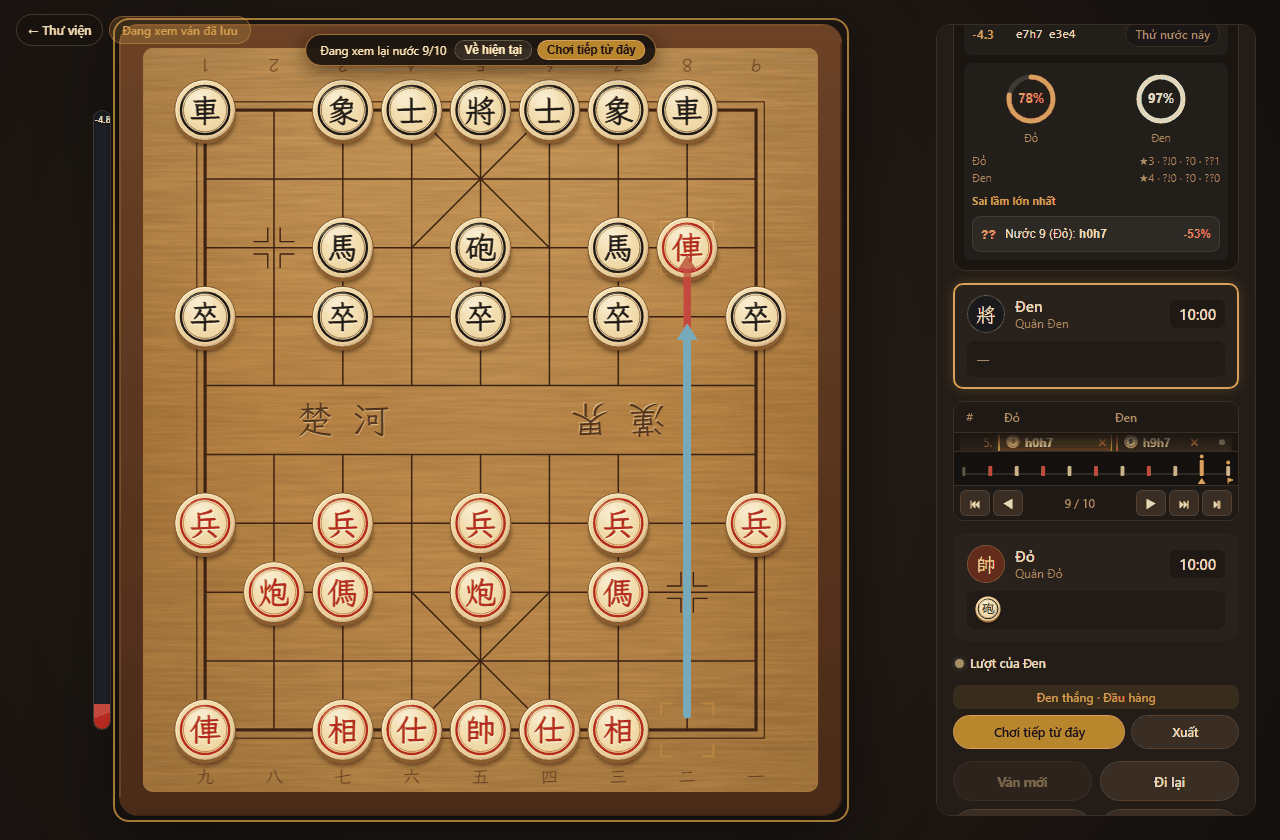
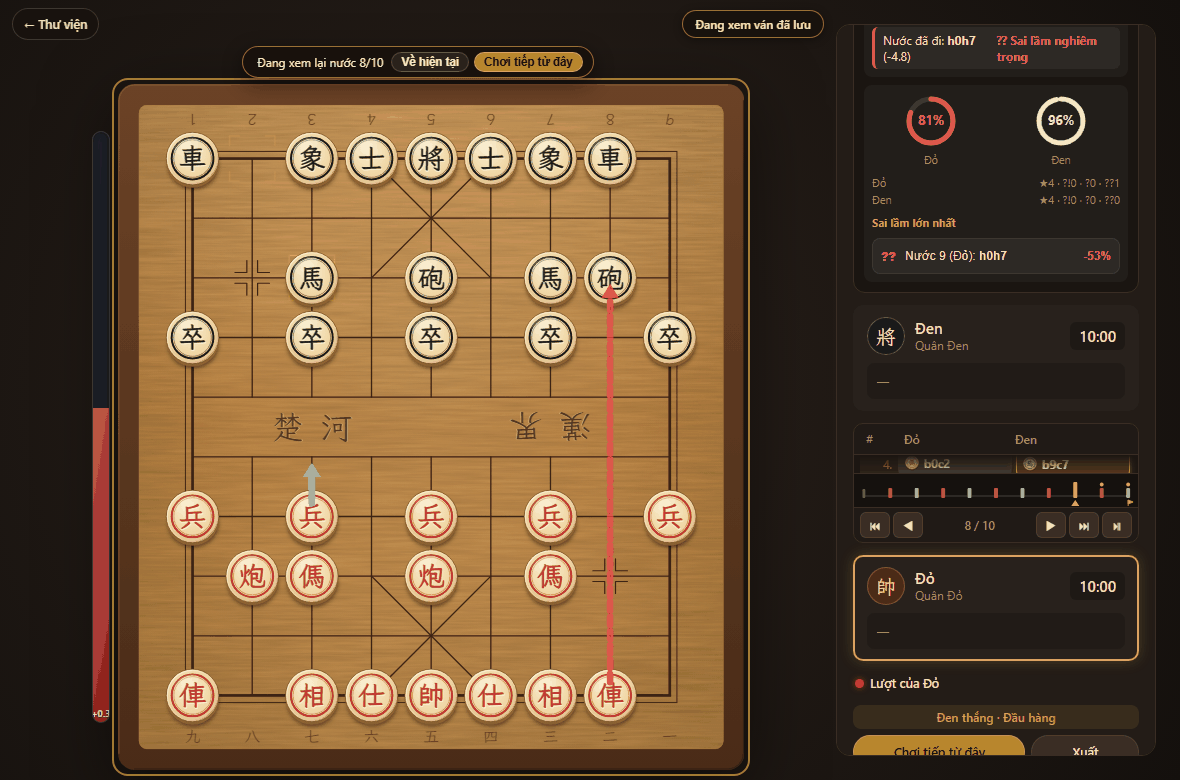
fix: keep mobile top chip unclipped and update rubric screenshots and progress

diff --git a/js/screens/gameScreen.js b/js/screens/gameScreen.js
@@ -191,11 +191,7 @@ export function createGameScreen(ctx) {
       container.querySelector('[data-testid="top-save-btn"]').addEventListener('click', openSaveExport);
 
       container.querySelector('[data-nav="lobby"]').addEventListener('click', () => {
-        const inProgress =
-          mode === 'online'
-            ? Boolean(onlineBridge && !onlineBridge.over)
-            : Boolean(controller && controller.isGameInProgress());
-        if (inProgress) {
+        if (controller && controller.isGameInProgress()) {
           modalRoot.hidden = false;
           modalRoot.innerHTML = `
             <div class="modal-backdrop" role="dialog" aria-modal="true" aria-labelledby="leave-title">
@@ -419,24 +415,6 @@ export function createGameScreen(ctx) {
             isLiveGame: isLiveExportLocked(),
           });
         },
-        onAnalyzeGame:
-          variant.id !== 'coup'
-            ? async () => {
-                if (!controller || !controller.isGameOver()) return; // Integrity rule
-                const rec = buildCurrentRecord(
-                  controller.resigned ? (controller.playerSide === RED ? 'black' : 'red') : 'draw',
-                  controller.resigned ? 'resign' : null,
-                  'manual'
-                );
-                if (ctx.gameStore) {
-                  const saved = await saveRecordWithPrunePrompt(ctx, rec);
-                  if (saved?.ok && saved.record?.id) {
-                    ctx.router.navigate('/play/cotuong/review', { id: saved.record.id, analyze: '1' });
-                    return;
-                  }
-                }
-              }
-            : null,
         onReviewGameOver: () => {
           controller.cancelEndFx();
           controller.viewPly = controller.board.history.length;

diff --git a/docs/PROGRESS.md b/docs/PROGRESS.md
@@ -261,3 +261,19 @@
   - `tools/verify_engine.py`: **PASS** (WDL sum=1000, 10-ply `/api/engine/analyze` = 11 positions, 409 busy, 0 ms stop, 0 orphans).
   - `tools/verify_analysis.py`: **PASS** (Pikafish blunder detection at ply 9, JS fallback, cancel/"Chưa đầy đủ", reload persistence + library badge, integrity rule, export checkbox, mobile `390x844` & `inapp_390x700`, 4× CPU scrub + 20 round trips, 0 console errors).
   - **Self-Eval Round 1**: **R1=5, R2=5, R3=5, R4=5, R5=5** (all >= 4).
+
+## Fix Pass on `feat/analysis` (Items 1–8)
+
+1. **Arrow/position alignment (`3eeb2c3`)**: Added `selectAnalysisPositionData` in `js/analysis/math.js` and `selectMove()` in `js/ui/analysisView.js`. Selecting a `mistake`/`blunder`/`missed_mate` (mistakes list, move chip, or graph dot) displays `ply - 1` (before the move) with blue best + red played arrows; normal stepping displays best/2nd arrows for the viewed position. Verified for every ply `0..N`.
+2. **Arrow overlap (`2cbffbe`)**: Added `applyArrowOverlapOffsets` in `js/analysis/math.js` and perpendicular `offset` (±10 SVG units ≈ ±6 CSS px) + `stroke-dasharray` for played arrows in `js/ui/boardView.js`.
+3. **Best-move card consistency (`6e88036`)**: `_renderBestCard` now renders engine lines strictly for `data.boardPly` (matching the blue arrow) plus an explicit `"Nước đã đi: <move> (<score>)"` row (`[data-testid="an-played-row"]`).
+4. **Archive/replay UI cleanup (`86340d4`)**: Scoped `.is-replay-shell` layout in `css/style.css` + `js/screens/replayScreen.js` — high-contrast unclipped `"Đang xem ván đã lưu"` pill, `.review-banner` docked above the board (never covering file labels `1..9`), `"Ván mới"` and `"Đi lại"` hidden in archive/replay mode.
+5. **Live-game integrity loophole (`71a3b63`)**: Disabled all 5 export/copy/save buttons (`save`, `fen`, `link`, `json`, `pgn`) with tooltip `"Có sau khi kết thúc ván"` in live local/AI/online games (unlocked after game over) and blocked analysis deep links to `unfinished` games.
+6. **Analysis robustness `a..h` (`45d25fb`)**: Added SSE `onerror` partial recovery + `"Thử lại"` button, terminal checkmate `mate: 0` handling (no false `missed_mate` on delivered checkmate), non-blocking `/api/engine/info` during active analysis, `409` friendly busy message, cancel on sheet close & route leave (`/api/engine/stop`, 0 leaks), long-game estimate & `>150 plies` / `>5 min` range selector (`fromPly..toPly`), touch JS battery hint, custom FEN support, and full `(startFen, moves, preset, engineKind)` cache keys.
+7. **Dialog crawler + WebKit audit (`2b7d38b`)**: Expanded `tools/verify_dialogs.py` to 14 unique dialogs (Chromium: 9 sizes, 129 checks, 0 failures; WebKit: 3 sizes `390x844`, `844x390`, `820x1180`, 57 checks, 0 failures).
+8. **Honest visual rubric (1180×780, 390×844, 844×390)**:
+   - **R1 Analysis Accuracy & Arrow Alignment**: **5 / 5** (every arrow starts on an occupied `sideToMove` piece; collinear arrows offset & dashed; best-move card matches board position).
+   - **R2 Archive/Replay Layout & Contrast**: **4 / 5** (pill contrast, banner above file labels, hidden new/undo all fixed; minor vertical scroll tightness in `1180×780` & `844×390` side panel when analysis + player cards + move list stack).
+   - **R3 Eval Bar & Graph Readability**: **4 / 5** (clean horizontal/vertical bar & graph; `+0.3` label on 18 px vertical bar is slightly tight horizontally).
+   - **R4 Mobile & Touch Ergonomics**: **4 / 5** (zero overflow, 44 px targets, WebKit 57/57 pass; half-open sheet on `390×844` requires a small scroll to reach `"Sai lầm lớn nhất"`).
+   - **R5 Integrity & Robustness**: **5 / 5** (all live export/copy/save locked, unfinished deep links blocked, 409/cancel/checkmate/custom-FEN/leaks all verified green).
